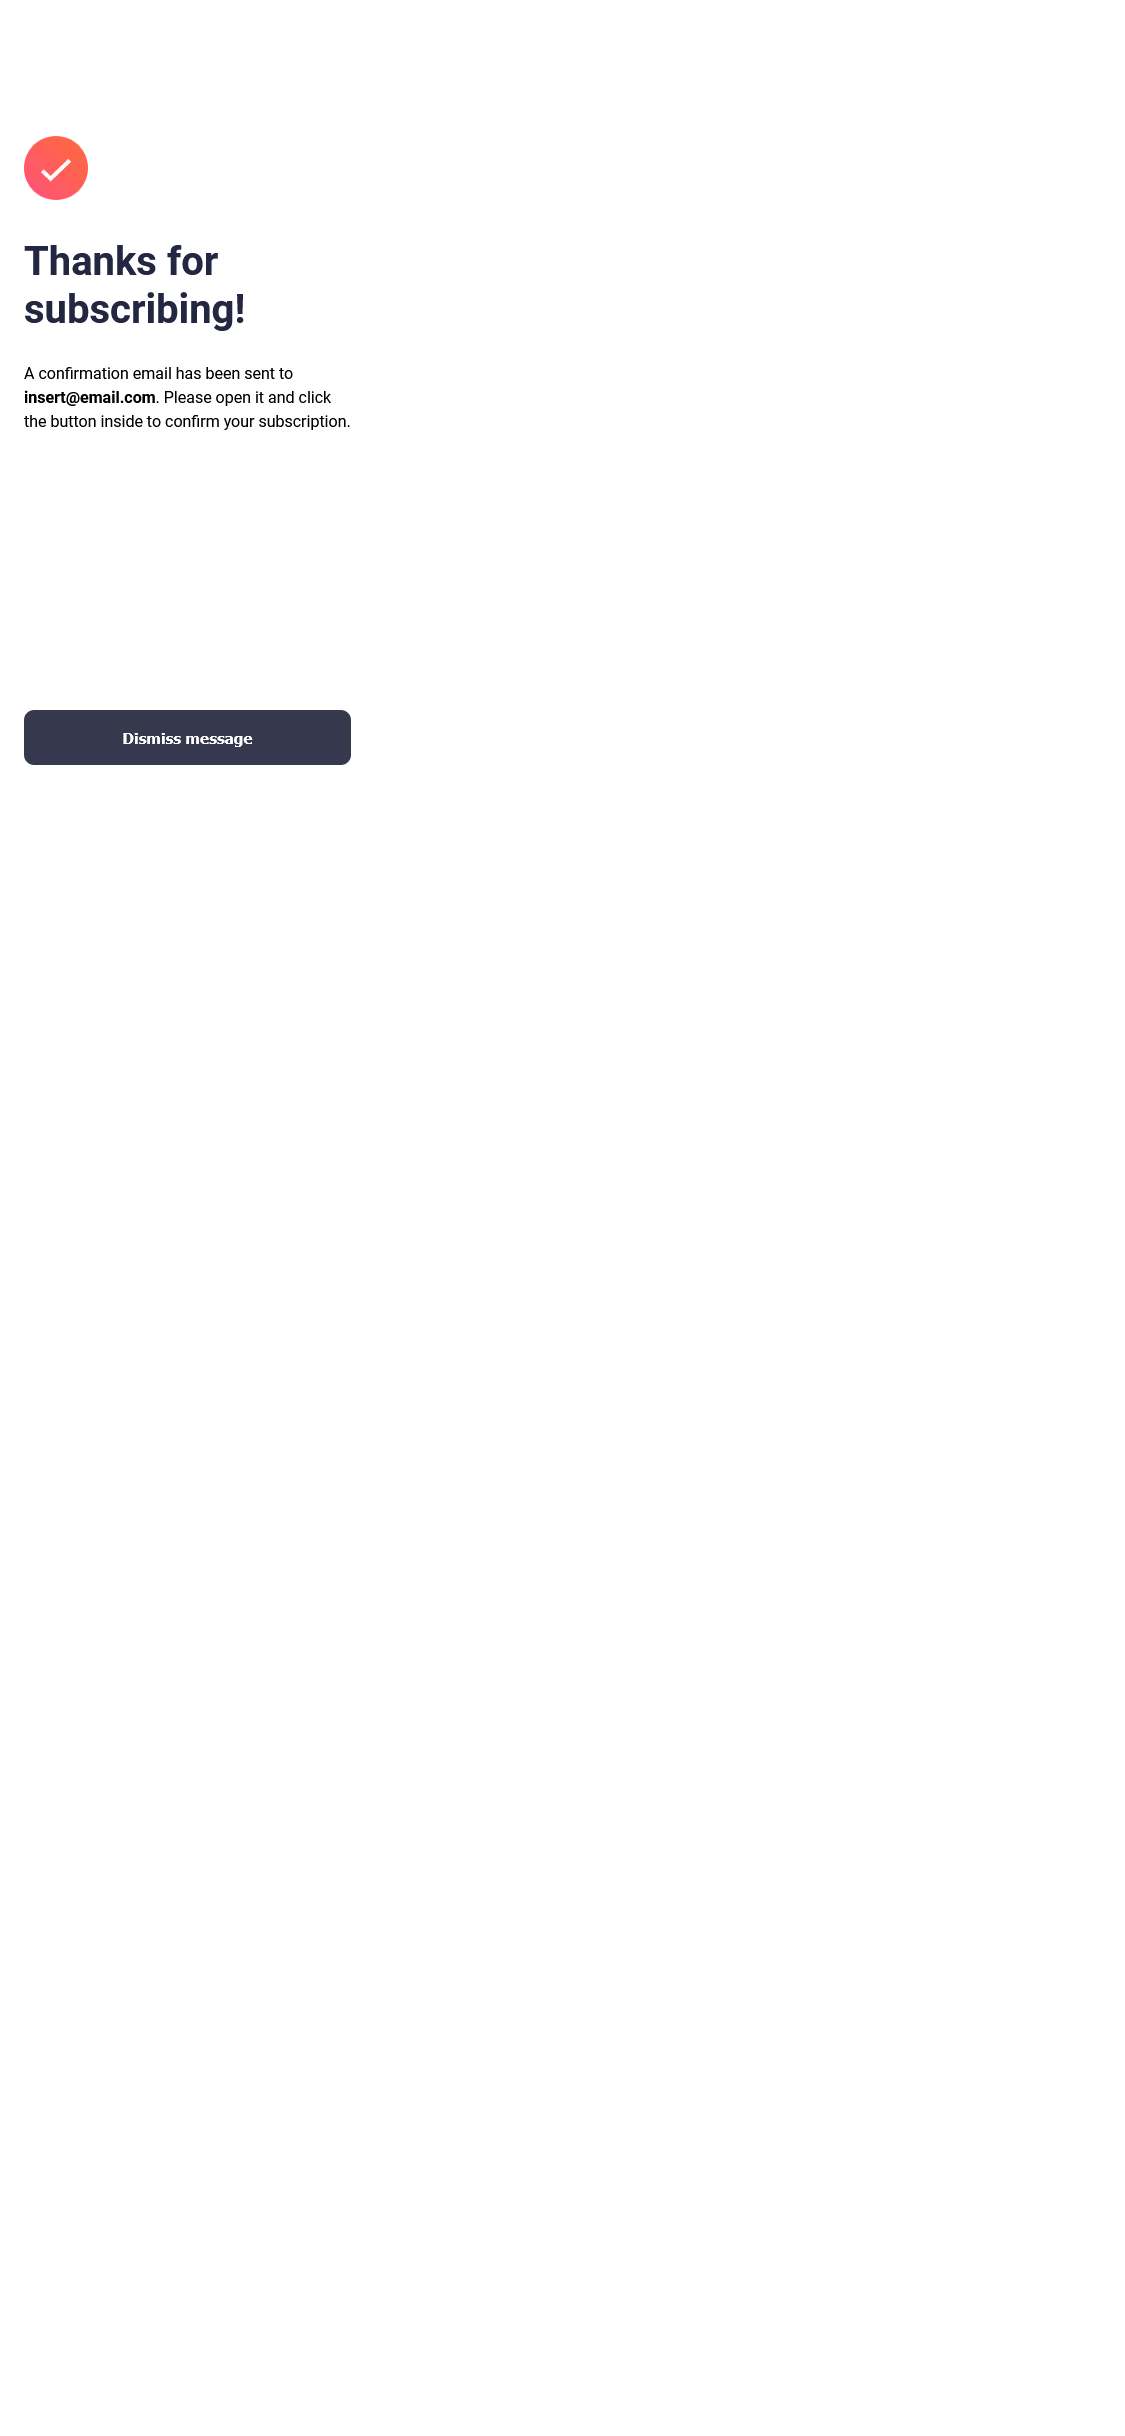
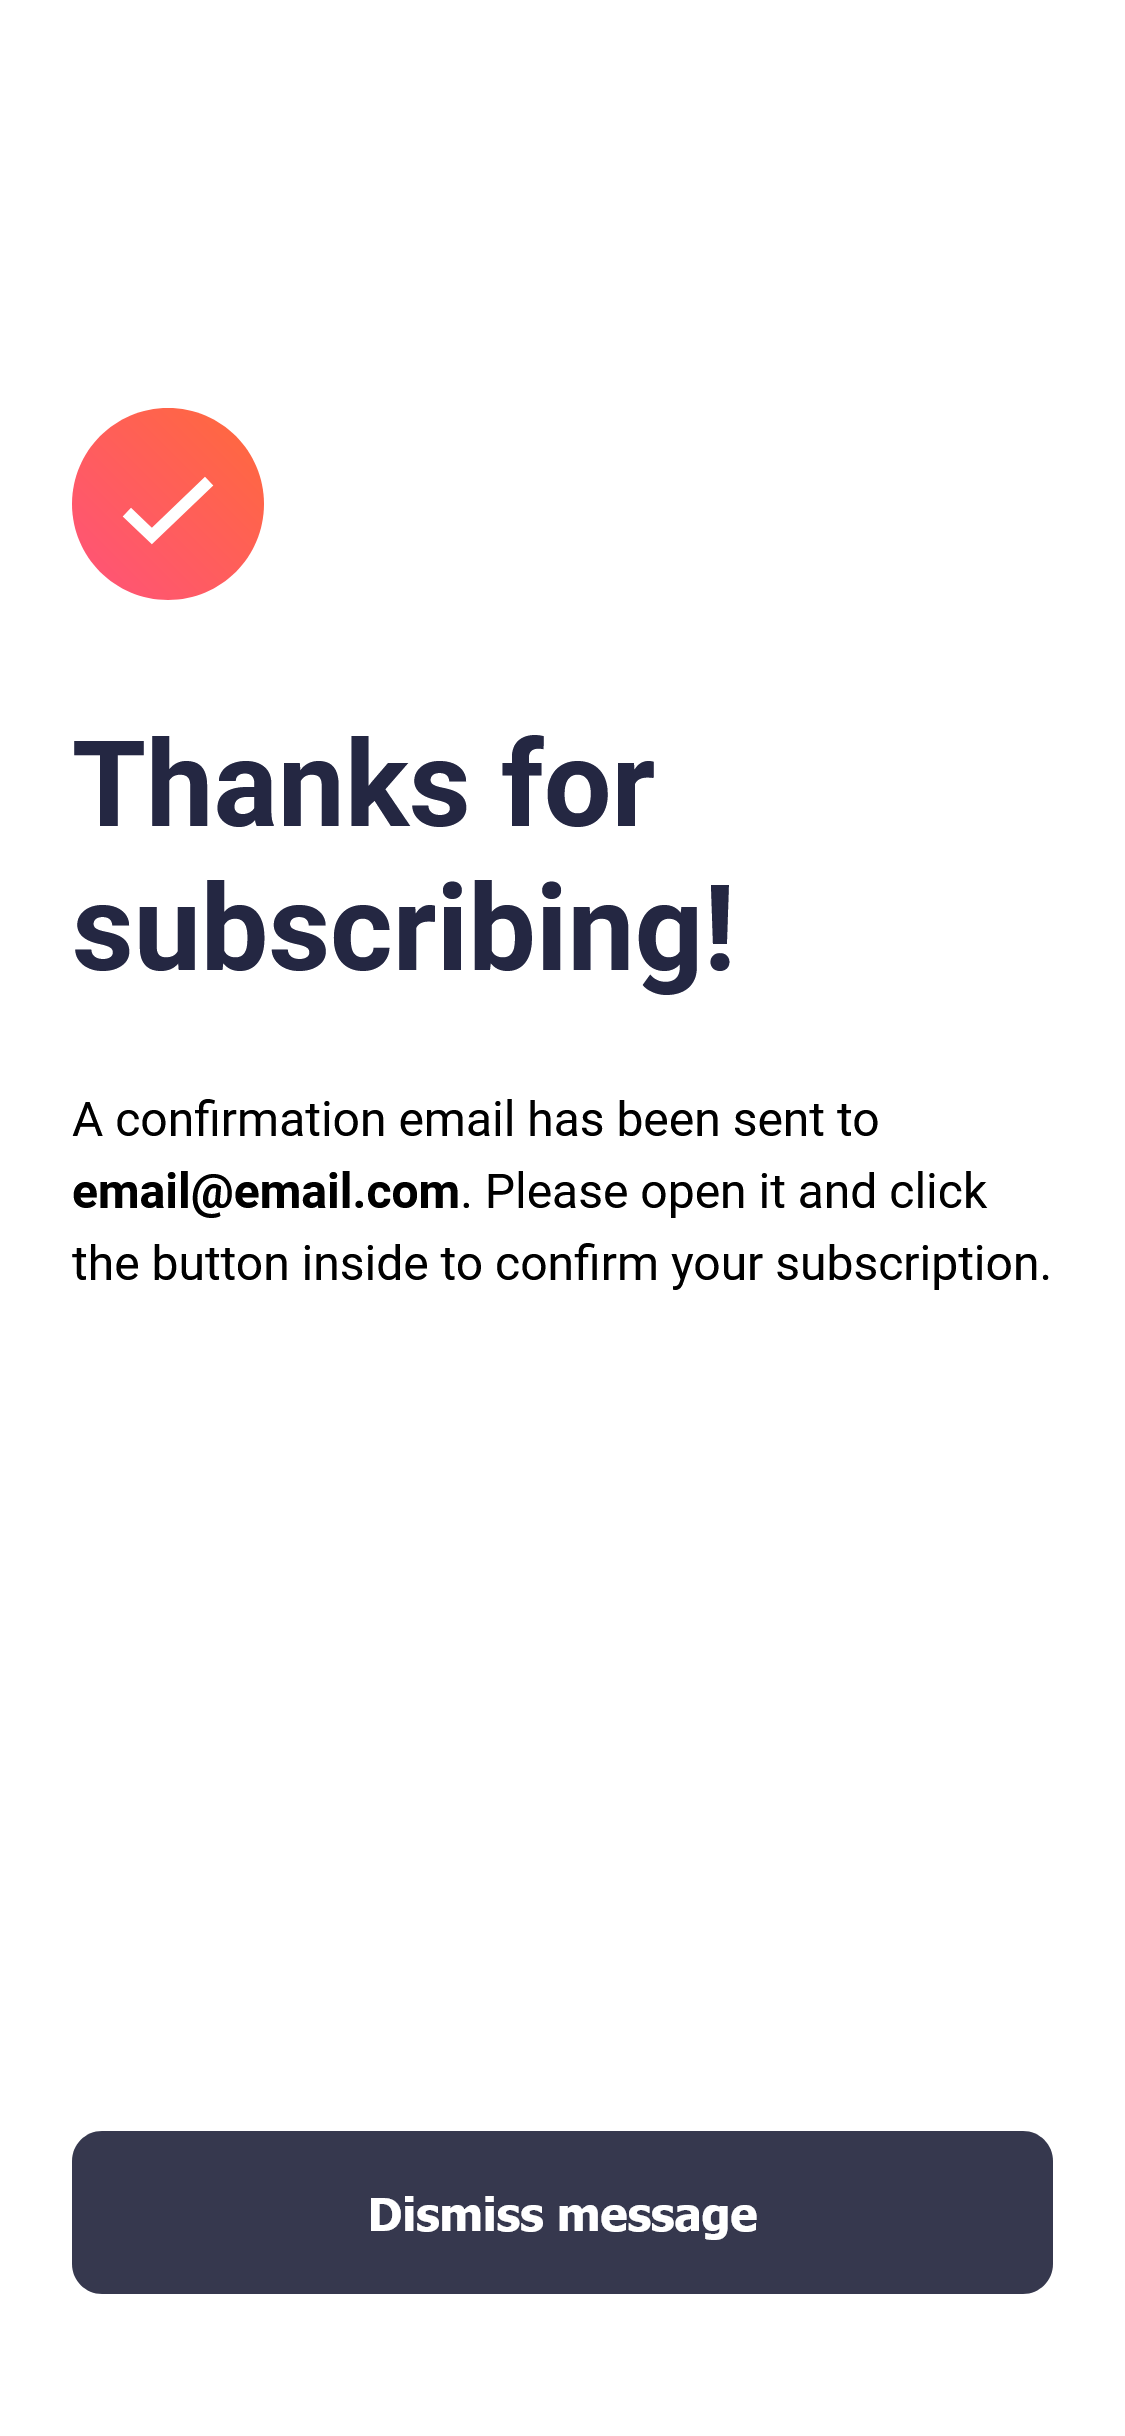
Added more screenshots

diff --git a/README.md b/README.md
@@ -60,9 +60,10 @@ Desktop view (1440px)
 
 Mobile view
 
-![](./assets/screenshots/Screenshot-Mobile.png)
+![Mobile view](./assets/screenshots/Screenshot-Mobile.png)
 
-![](./assets/screenshots/Screenshot-Mobile-active.png)
+![Mobile active view](./assets/screenshots/Screenshot-Mobile-active.png)
 
-![](./assets/screenshots/Screenshot-Mobile-error.png)
+![Mobile error view](./assets/screenshots/Screenshot-Mobile-error.png)
 
+![Mobile success view](./assets/screenshots/Screenshot-Mobile-success.png)
